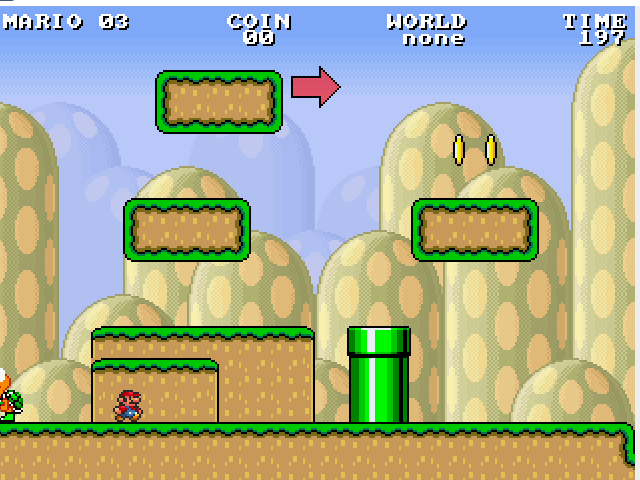
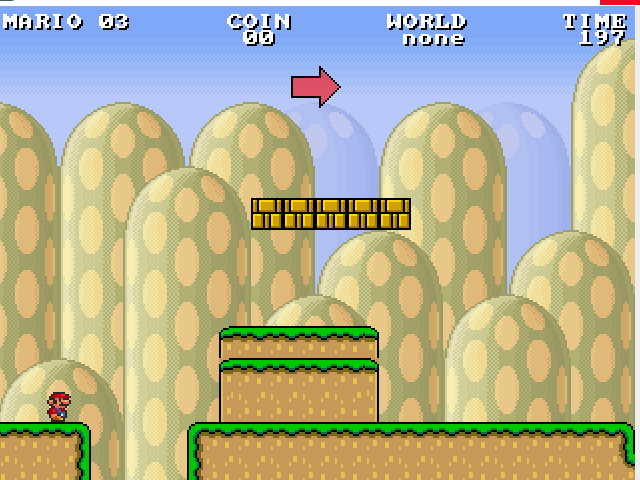
same bf

diff --git a/PruningMarioResearch/src/beauty/BeautyCustomizedLevel.java b/PruningMarioResearch/src/beauty/BeautyCustomizedLevel.java
@@ -393,7 +393,7 @@ public class BeautyCustomizedLevel extends Level{
 	        
 	        //3.3) Brute-force search
 	        //objElem.setFinalList(objElem.getFinalListNoOrder());
-	    	for(int i=0;i<5;i++)
+	    	for(int i=0;i<1;i++)
 	    	{
 	    		startTime = System.currentTimeMillis();
 	    		Beststates3=objGrapB3.DepthSearchCenterFrameNoPruningNoRegionsNoObjects(mediumStraight,height,numElements-numEnemies,numElements-numEnemies,states,objConstraints, objElem.getFinalList(),objElem,0,mediumStraight-2,floorTileHeight,0,0,numEnemies,random,globalControlSearch,8,typeSymmetry);
@@ -404,13 +404,13 @@ public class BeautyCustomizedLevel extends Level{
 //	    		System.out.println(objGrapB3.bestSymmetryV+" "+time3+" "+((objGrapB3.getCounterIDs())));
 	    		sum3=sum3+time3;
 	    	}
-	    	time3=sum3/5;
+	    	time3=sum3/1;
 	    	time3=round(time3,2);
 	        //System.out.println("Time Brute-force search "+elapsedTime);
 	    	
 	        //3.5) B&B+heuristic + region ordering + LeviHeuristic
 	        //objElem.setFinalList(objElem.getFinalListNoOrder());
-	    	for(int i=0;i<5;i++)
+	    	for(int i=0;i<1;i++)
 	    	{
 	    		startTime = System.currentTimeMillis();
 	    		Beststates5=objGrapB5.DepthSearchCenterFramePruningRegion(mediumStraight,height,numElements-numEnemies,numElements-numEnemies,states,objConstraints, objElem.getFinalList(),objElem,0,mediumStraight-2,floorTileHeight,0,0,numEnemies,random,globalControlSearch,8,typeSymmetry);
@@ -421,7 +421,7 @@ public class BeautyCustomizedLevel extends Level{
 //	    		System.out.println(objGrapB5.bestSymmetryV+" "+time5+" "+((objGrapB5.getCounterIDs())));
 	    		sum5=sum5+time5;
 	    	}
-	    	time5=sum5/5;
+	    	time5=sum5/1;
 	    	time5=round(time5,2);
 	        //System.out.println("Time B&B+heuristic + region ordering "+elapsedTime);
 	        
@@ -429,7 +429,7 @@ public class BeautyCustomizedLevel extends Level{
 	        //objElem.setFinalList(objElem.getFinalListNoOrder());
 	    	//System.out.println("largura "+mediumStraight);
 	    	//System.out.println("Altura "+height);
-	    	for(int i=0;i<5;i++)
+	    	for(int i=0;i<1;i++)
 	    	{
 	    		startTime = System.currentTimeMillis();
 	    		Beststates6=objGrapB6.DepthSearchCenterFramePruningLeviHeuristic(mediumStraight,height,numElements-numEnemies,numElements-numEnemies,states,objConstraints, objElem.getFinalList(),objElem,0,mediumStraight-2,floorTileHeight,0,0,numEnemies,random,globalControlSearch,8,typeSymmetry);
@@ -440,13 +440,13 @@ public class BeautyCustomizedLevel extends Level{
 //	    		System.out.println(objGrapB6.bestSymmetryV+" "+time6+" "+((objGrapB6.getCounterIDs())));
 	    		sum6=sum6+time6;
 	    	}
-	    	time6=sum6/5;
+	    	time6=sum6/1;
 	    	time6=round(time6,2);
 	        //System.out.println("Time B&B+heuristic + region ordering "+elapsedTime);
 	        
 	        //3.7) B&B+heuristic +  oldoldheuristic
 	        //objElem.setFinalList(objElem.getFinalListNoOrder());
-	    	for(int i=0;i<5;i++)
+	    	for(int i=0;i<1;i++)
 	    	{
 	    		startTime = System.currentTimeMillis();
 	    		Beststates7=objGrapB7.DepthSearchCenterFramePruningOldOldHeuristic(mediumStraight,height,numElements-numEnemies,numElements-numEnemies,states,objConstraints, objElem.getFinalList(),objElem,0,mediumStraight-2,floorTileHeight,0,0,numEnemies,random,globalControlSearch,8,typeSymmetry);
@@ -457,7 +457,7 @@ public class BeautyCustomizedLevel extends Level{
 //	    		System.out.println(objGrapB6.bestSymmetryV+" "+time6+" "+((objGrapB6.getCounterIDs())));
 	    		sum7=sum7+time7;
 	    	}
-	    	time7=sum7/5;
+	    	time7=sum7/1;
 	    	time7=round(time7,2);
 	        //System.out.println("Time B&B+heuristic + region ordering "+elapsedTime);
 	    	

diff --git a/PruningMarioResearch/src/dk/itu/mario/engine/GenerationForm.java b/PruningMarioResearch/src/dk/itu/mario/engine/GenerationForm.java
@@ -93,11 +93,11 @@ public class GenerationForm {
 		
 	  	/*---------------------to Generate screens------------------------*/
 		
-			int numElementsGlobalParamet=6; 
+			int numElementsGlobalParamet=4; 
 			double wParamether=3;
 			int methodSearch=3;
 			Random rand = new Random();
-			long seedM = -2011069996;
+			long seedM = rand.nextLong();
 			System.out.println("seed "+seedM);
 	    	JFrame frame = new JFrame("Mario Experience Showcase");
 	    	MarioComponent mario = new MarioComponent(640, 480,true," ",5,numElementsGlobalParamet,wParamether,methodSearch,seedM);
